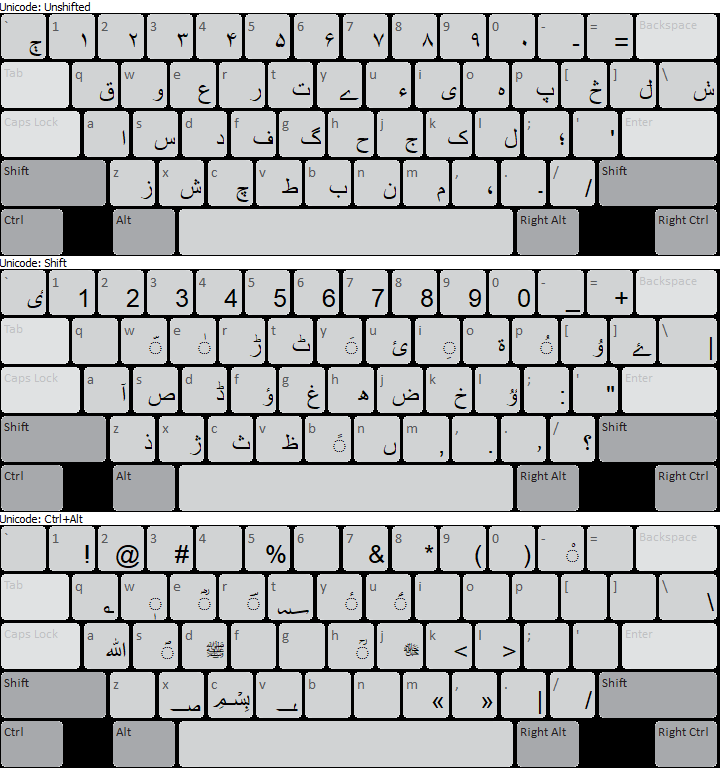
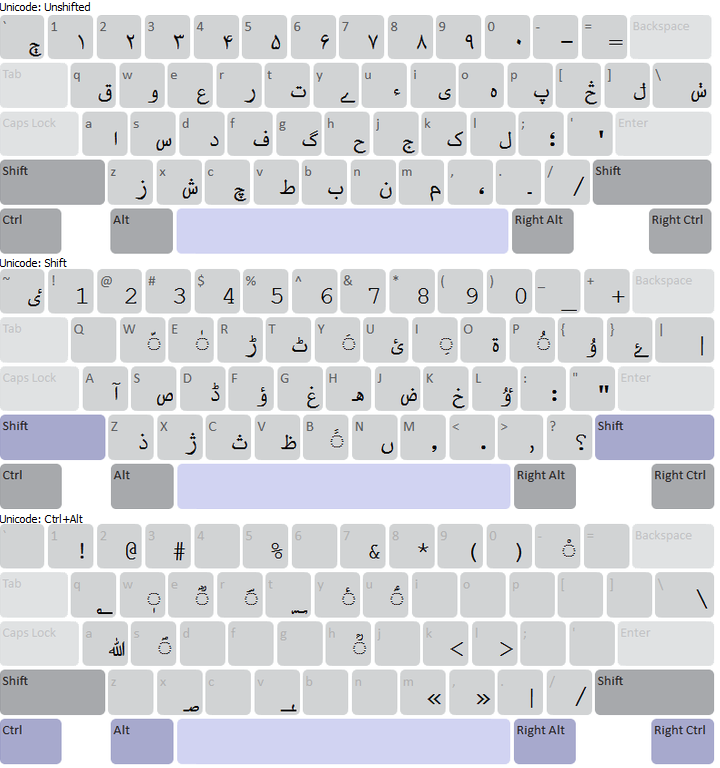
Removed CTRL+ALT c, d and j keystrokes

diff --git a/release/rac/rac_gawar_bati/source/rac_gawar_bati-layout.js b/release/rac/rac_gawar_bati/source/rac_gawar_bati-layout.js
@@ -1,6 +1,6 @@
 {
   "tablet": {
-    "font": "Arial",
+    "font": "Scheherazade",
     "layer": [
       {
         "id": "default",
@@ -563,7 +563,7 @@
         ]
       },
       {
-        "id": "ctrlalt",
+        "id": "symbols",
         "row": [
           {
             "id": 1,
@@ -701,7 +701,7 @@
               },
               {
                 "id": "K_D",
-                "text": "ﷺ"
+                "text": ""
               },
               {
                 "id": "K_F",
@@ -717,7 +717,7 @@
               },
               {
                 "id": "K_J",
-                "text": "ﷻ"
+                "text": ""
               },
               {
                 "id": "K_K",
@@ -760,7 +760,7 @@
               },
               {
                 "id": "K_C",
-                "text": "﷽"
+                "text": ""
               },
               {
                 "id": "K_V",
@@ -841,6 +841,7 @@
           }
         ]
       }
-    ]
+    ],
+    "fontsize": ""
   }
 }
